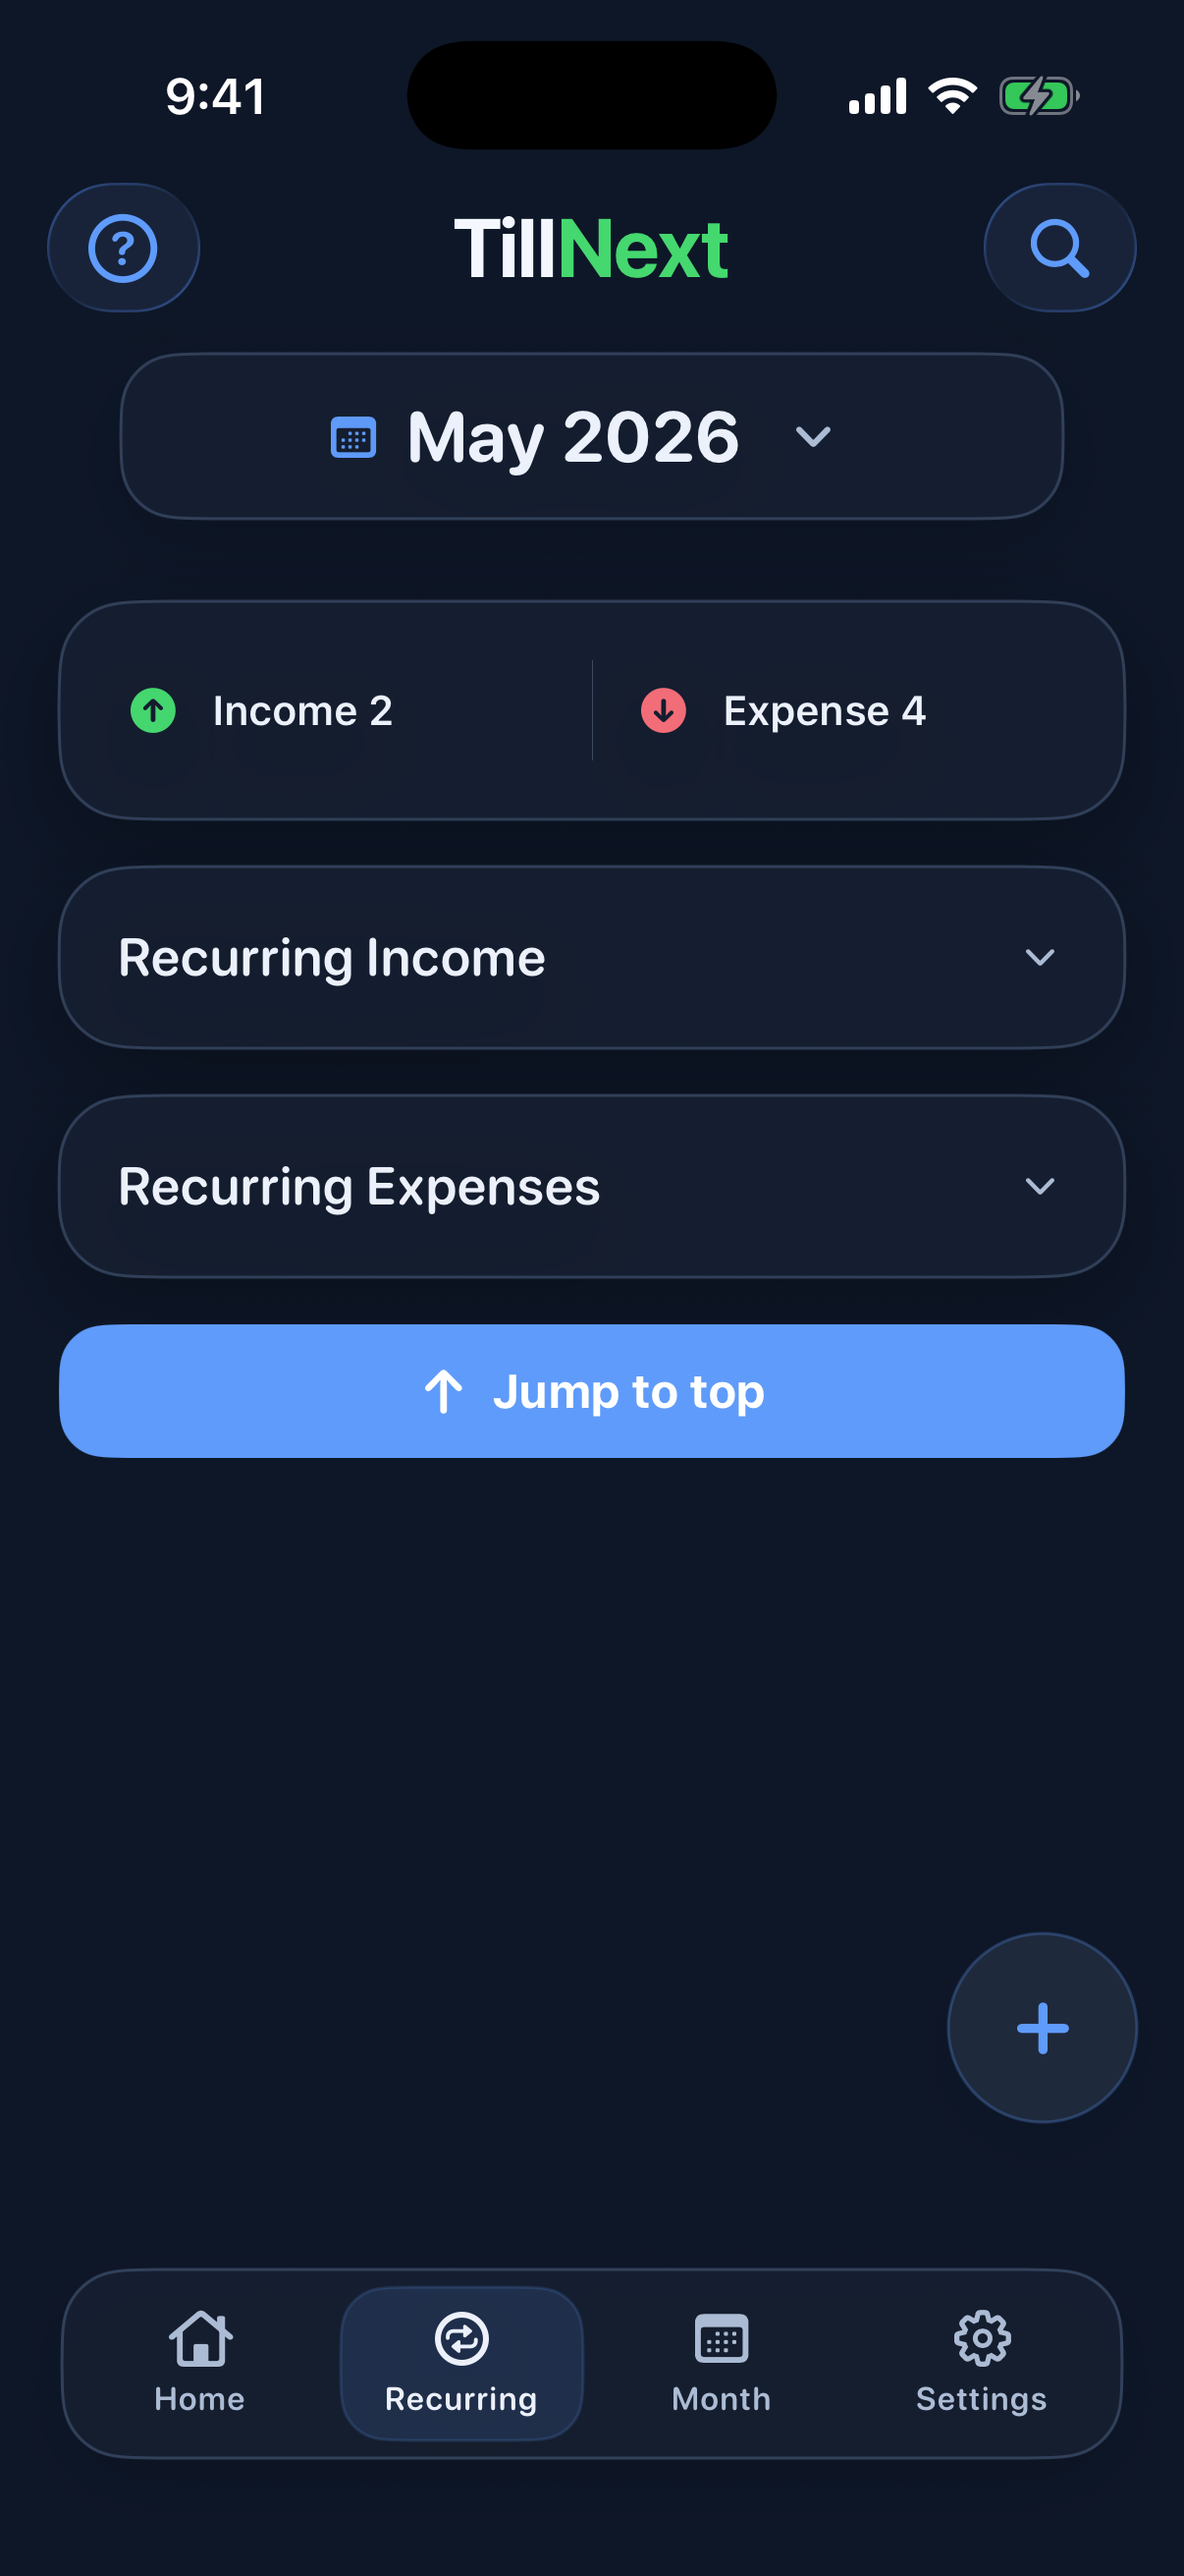
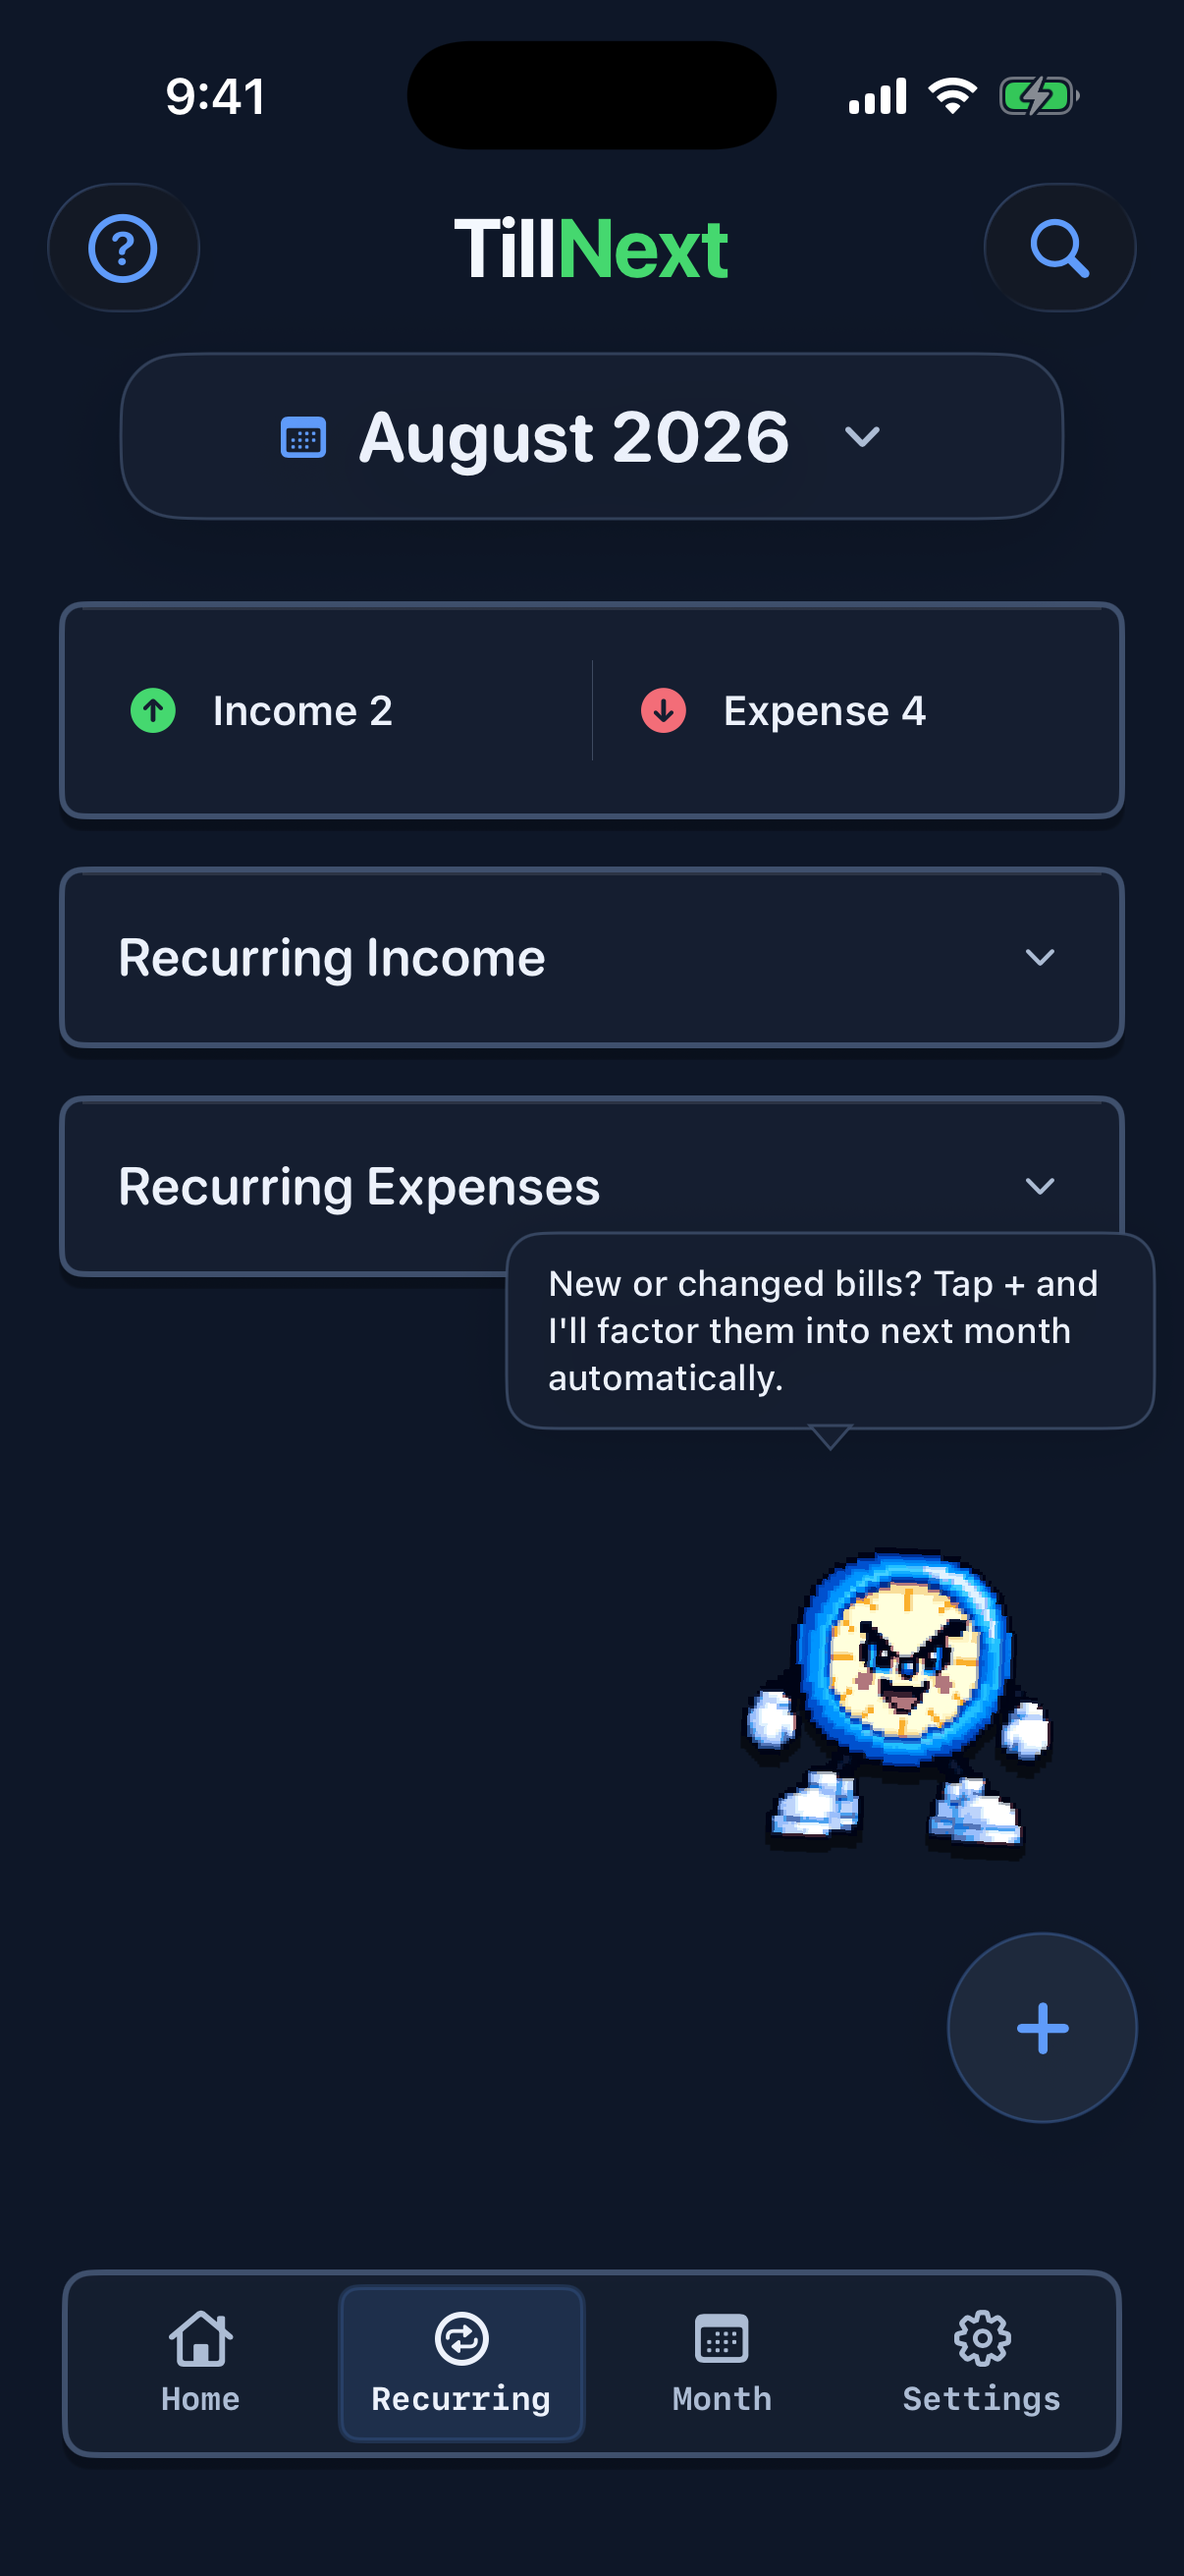
Update TillNext 1.1.9 release notes and help images

diff --git a/changelog/index.html b/changelog/index.html
@@ -21,6 +21,16 @@
       <h1>TillNext: Paycheck Planner Changelog</h1>
       <p>Public notes for meaningful TillNext changes. This page focuses on user-facing updates, privacy posture, and support information.</p>
 
+      <h2>Version 1.1.9</h2>
+      <p><strong>Updated:</strong> August 5, 2026</p>
+      <h3>August 5, 2026</h3>
+      <ul>
+        <li>Refreshed TillNext with sharper pixel-inspired panels and navigation that match the visual world of Tilly's Quest while keeping planning screens clear and readable.</li>
+        <li>Updated the optional Tilly companion to use Tilly's canonical Tilly's Quest pixel sprite.</li>
+        <li>Improved Safe cash so a saved bank check can roll forward across months as income and bills are marked done, reducing the need to re-enter Cash today.</li>
+        <li>Replaced the daily stale-cash warning with a clearer note when Safe cash is being estimated from the last bank check.</li>
+      </ul>
+
       <h2>Version 1.1.8</h2>
       <p><strong>Updated:</strong> June 8, 2026</p>
       <h3>June 8, 2026</h3>
